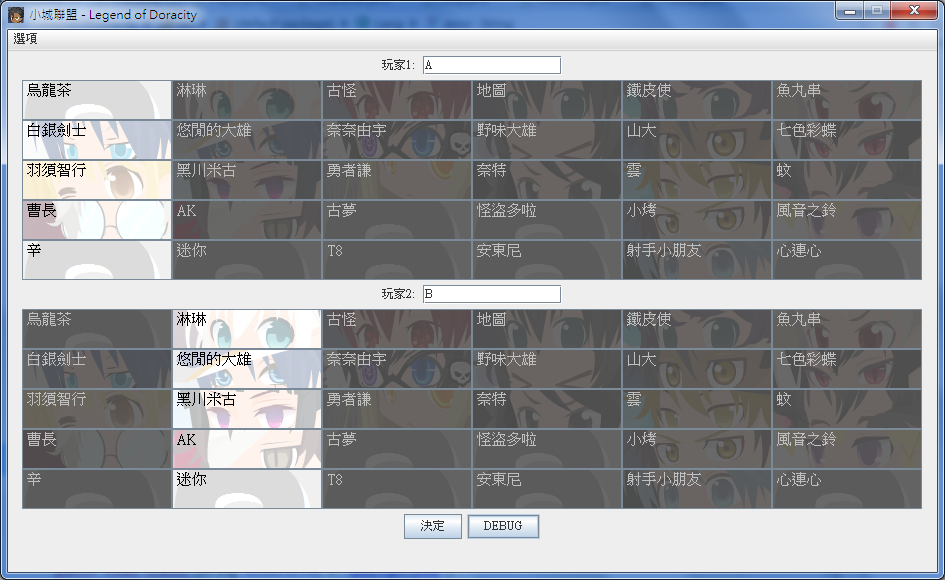
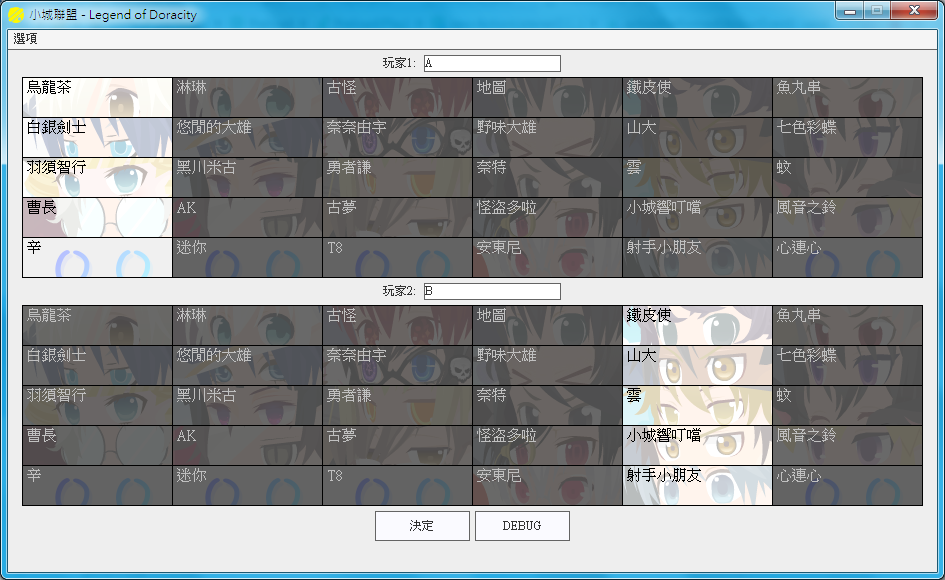
Add LittleCity's Skill Insane & Self-abuse
新增技能：小城的狂化（一職被動）和自虐（一職主動）

更新DEBUG按鈕所選擇的角色

Changed region(s): [[0.0, 0.0, 1.0, 1.0]]

diff --git a/src/characters/LittleCity.java b/src/characters/LittleCity.java
@@ -1,23 +1,52 @@
 public class LittleCity extends Character {
 
+	private int count = 0; // for job 1 passive skill 1
+
+	/**
+	 * Call this method in Player.changeHP() to calculate how many attack should
+	 * be added according to HP damaged.
+	 * 
+	 * @param HP
+	 *            HP damaged (e.g. if player -1 HP, pass 1)
+	 */
+	public void insane(int HP) {
+		while (HP != 0) {
+			HP--;
+			if (++count == 3) {
+				Play.printlnLog(Lang.littleCity_insane);
+				changeAttack(2, FOR_ROUND_END);
+				count = 0;
+			}
+		}
+	}
+
+	/* === Above are LittleCity's unique fields and methods === */
+
 	public LittleCity(Player player) {
 		super(player, 23);
 	}
 
 	@Override
 	protected void setCharacter() {
-		// TODO Auto-generated method stub
 		if (isFirstJob()) {
 
 			setValues(true, SABER, true, 1, 2, 1, 1, false);
 
-			passiveSkills = new CharSkill[1];
+			passiveSkills = new CharSkill[2];
 			passiveSkills[0] = new CharSkill(this, false, 0, Command.NA, new CharSkillMethod() {
 
 				@Override
 				public void skillMethod(Character currentChar, Player opponent) {
-					Play.printlnLog("Using LittleCity's 1stJob passive skill!");
+					Play.printlnLog("Using LittleCity's 1stJob passive skill 1!");
 
+				}
+
+			}, 0);
+			passiveSkills[1] = new CharSkill(this, false, 1, Command.NA, new CharSkillMethod() {
+
+				@Override
+				public void skillMethod(Character currentChar, Player opponent) {
+					// COMPLETED
 				}
 
 			}, 0);
@@ -27,8 +56,7 @@ public class LittleCity extends Character {
 
 						@Override
 						public void skillMethod(Character currentChar, Player opponent) {
-							Play.printlnLog("Using LittleCity's 1stJob active skill!");
-
+							getPlayer().changeHP(-1);
 						}
 
 					}, 0);

diff --git a/src/Lang.java b/src/Lang.java
@@ -192,9 +192,9 @@ public class Lang {
 			// 23. LittleCity
 			{
 					// Passive
-					{ { "自虐", "己方-1HP" } },
+					{ { "狂化", "該回合每損失3HP，攻擊+2 " }, { "後制", "順位時將會是最後行動" } },
 					// Active
-					{ { "狂化", "該回合每損失3HP，攻擊+2 後制:順位時將會是最後行動" } } },
+					{ { "自虐", "己方-1HP" } } },
 			// 24. Wind Sound
 			{
 					// Passive
@@ -606,6 +606,8 @@ public class Lang {
 	public final static String kuzmon_transferMagic2 = "與對方交換了";
 	// 22. KaitoDora
 	public final static String kaitodora_steal = "偷竊了";
+	// 23. LittleCity
+	public final static String littleCity_insane = CharNames[23] + "的狂化技能發動：每損失3HP攻擊+2";
 	// 24. WindSound
 	public final static String windsound_catForm_cat = CharNames[24] + "已轉為貓形態！";
 	public final static String windsound_catForm_toString = "（貓形態）";

diff --git a/src/Player.java b/src/Player.java
@@ -186,12 +186,20 @@ public class Player {
 	 *         1 if player HP <= 0
 	 */
 	public int changeHP(int HP) {
+		
+		this.HP += HP;
 
 		if (HP < 0) {
 			Play.shake(5, 300);
+
+			// Check for LittleCity's job 1 passive skill 1
+			LittleCity maybeLittleCity = (LittleCity) contains(LittleCity.class);
+			if (maybeLittleCity != null && maybeLittleCity.isFirstJob()) {
+				maybeLittleCity.insane(-HP);
+			}
+
 		}
 
-		this.HP += HP;
 		if (HP != 0) {
 			Play.printlnLog(Lang.player + ": " + name + " " + (HP >= 0 ? "+" : "") + HP + " HP");
 		}

diff --git a/src/GUI/Preload.java b/src/GUI/Preload.java
@@ -69,8 +69,8 @@ public class Preload extends JPanel {
 		debugButton.addActionListener(new ActionListener() {
 			@Override
 			public void actionPerformed(ActionEvent e) {
-				debugPlay.setPlayer("A", "B", new int[] { 1, 7, 13, 19, 21 }, new int[] { 2, 8, 14,
-						20, 26 });
+				debugPlay.setPlayer("A", "B", new int[] { 1, 7, 13, 19, 21 }, new int[] { 5, 11,
+						17, 23, 29 });
 				synchronized (debugPlay) {
 					debugPlay.notify();
 				}
